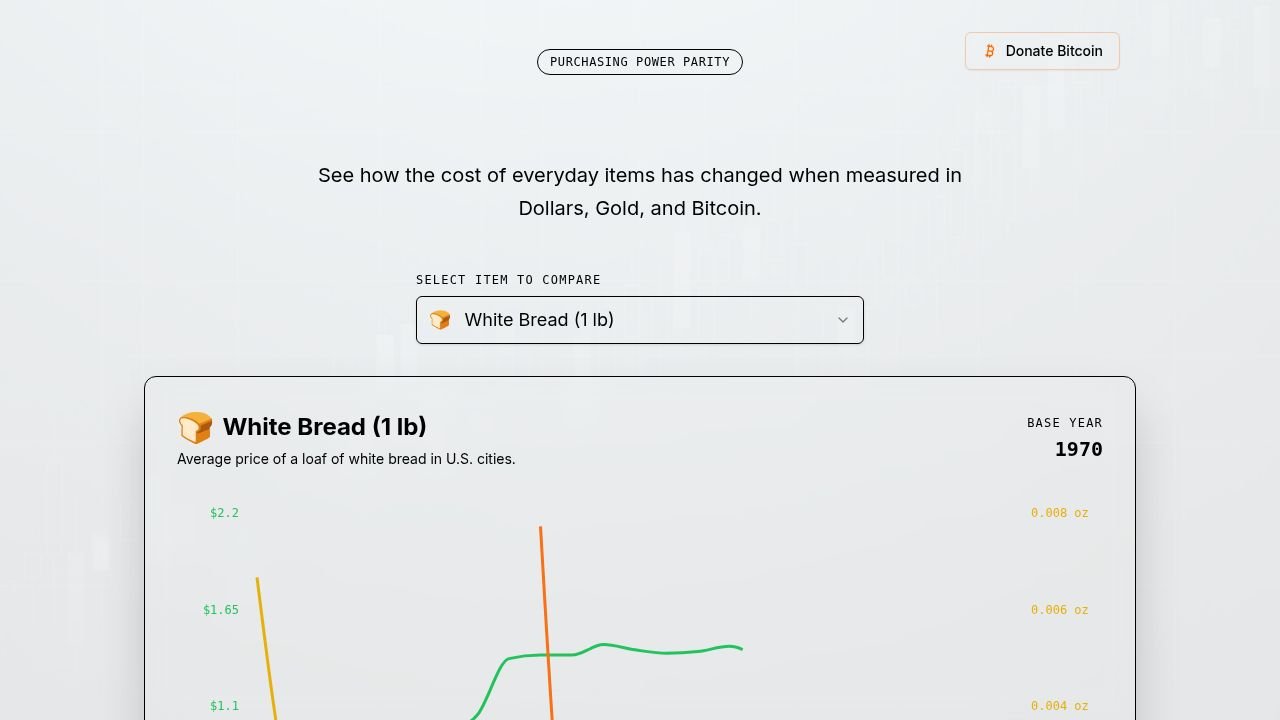
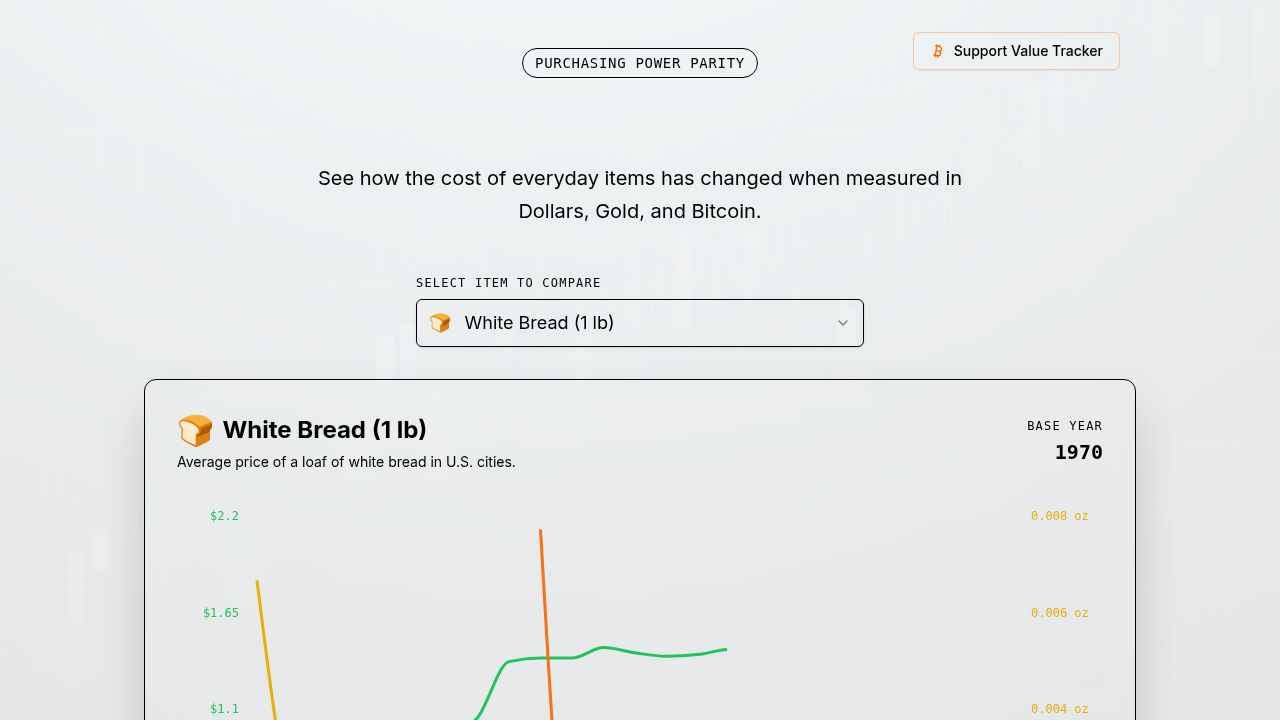
Adjust title placement and size for better mobile viewing
Update header margin and text size for "Purchasing Power Parity" title on mobile devices.

Replit-Commit-Author: Agent
Replit-Commit-Session-Id: d4209df7-d20b-4ed8-b46c-4c5c22db52bb
Replit-Commit-Checkpoint-Type: full_checkpoint
Replit-Commit-Event-Id: 06e45a48-0852-4e14-a96a-2f8c528b0c68
Replit-Commit-Screenshot-Url: https://storage.googleapis.com/screenshot-production-us-central1/21e0bbab-dfdd-402d-8f18-2d8f00b928a1/d4209df7-d20b-4ed8-b46c-4c5c22db52bb/96vDrB4
Replit-Helium-Checkpoint-Created: true

diff --git a/client/src/pages/home.tsx b/client/src/pages/home.tsx
@@ -48,8 +48,8 @@ export default function Home() {
         </div>
 
         {/* Header */}
-        <header className="mb-12 text-center space-y-4">
-          <div className="inline-block px-3 py-1 rounded-full bg-primary/10 border border-primary/20 text-primary text-xs font-mono tracking-wider mb-2">
+        <header className="mt-16 mb-12 text-center space-y-4 md:mt-0">
+          <div className="inline-block px-3 py-1 rounded-full bg-primary/10 border border-primary/20 text-primary text-sm font-mono tracking-wider mb-2">
             PURCHASING POWER PARITY
           </div>
           <h1 className="text-4xl md:text-6xl font-display font-bold tracking-tight bg-gradient-to-r from-foreground to-muted-foreground bg-clip-text text-transparent">